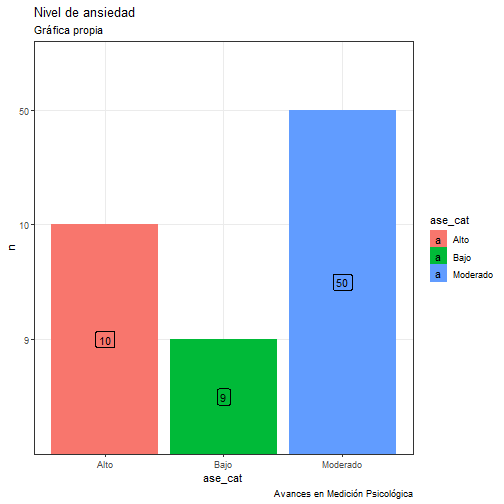
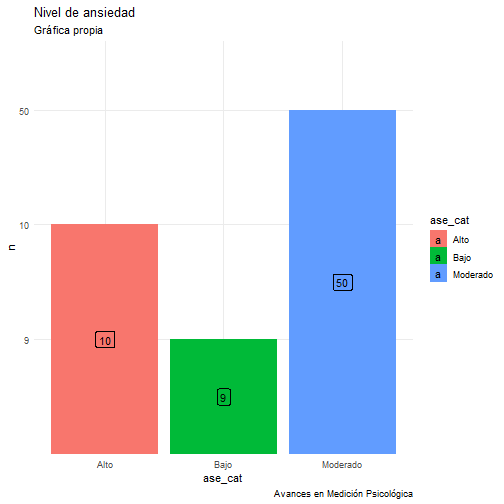
Update

diff --git a/Demo_xaringan.html b/Demo_xaringan.html
@@ -10,7 +10,7 @@
     <link href="libs/tachyons/tachyons.min.css" rel="stylesheet" />
     <link href="libs/panelset/panelset.css" rel="stylesheet" />
     <script src="libs/panelset/panelset.js"></script>
-    <script type="application/json" id="xaringanExtra-editable-docid">{"id":"xc39079bc60c47769f78210e9e321b90","expires":1}</script>
+    <script type="application/json" id="xaringanExtra-editable-docid">{"id":"x98ff216f49f42edb94cd280e8e09a9b","expires":1}</script>
     <script src="libs/himalaya/himalaya.js"></script>
     <script src="libs/js-cookie/js.cookie.js"></script>
     <link href="libs/editable/editable.css" rel="stylesheet" />
@@ -140,8 +140,8 @@ class: inverse, center, middle
 .font105[.line-space1-5[
 La base de datos (data) fue extraida de una investigación que tenía por objetivo correlacionar las variables `Autoeficacia Académica (AA)` y el `Burnout (B)` en estudiantes de enfermería ]]
 
-<div id="htmlwidget-ea515cf4501c38242508" style="width:100%;height:auto;" class="datatables html-widget"></div>
-<script type="application/json" data-for="htmlwidget-ea515cf4501c38242508">{"x":{"filter":"none","vertical":false,"data":[["1","2","3","4","5","6","7","8","9","10","11"],["Muestra","Sexo","Edad","Convivencia","Escuela","Escala de Autoeficacia Academica","Escala de Burnout","Puntaje total de Autoeficacia Academica","Puntaje total de Burnout","Puntaje categorizado de Autoeficacia Academica","Puntaje categorizado de Burnout"],["69","Hombre; Mujer","17; 23","Solo; Con familia","Ciencias; Ciencias sociales; Vocación salud","ase1; ase31","bur1; bur24","44; 144","10; 125","bajo; moderado; alto","leve; moderado; severo"]],"container":"<table class=\"display\">\n  <thead>\n    <tr>\n      <th> <\/th>\n      <th>Variable<\/th>\n      <th>Descripcion<\/th>\n    <\/tr>\n  <\/thead>\n<\/table>","options":{"pageLength":5,"order":[],"autoWidth":false,"orderClasses":false,"columnDefs":[{"orderable":false,"targets":0}],"lengthMenu":[5,10,25,50,100]}},"evals":[],"jsHooks":[]}</script>
+<div id="htmlwidget-8ad7da564cf5809e8dba" style="width:100%;height:auto;" class="datatables html-widget"></div>
+<script type="application/json" data-for="htmlwidget-8ad7da564cf5809e8dba">{"x":{"filter":"none","vertical":false,"data":[["1","2","3","4","5","6","7","8","9","10","11"],["Muestra","Sexo","Edad","Convivencia","Escuela","Escala de Autoeficacia Academica","Escala de Burnout","Puntaje total de Autoeficacia Academica","Puntaje total de Burnout","Puntaje categorizado de Autoeficacia Academica","Puntaje categorizado de Burnout"],["69","Hombre; Mujer","17; 23","Solo; Con familia","Ciencias; Ciencias sociales; Vocación salud","ase1; ase31","bur1; bur24","44; 144","10; 125","bajo; moderado; alto","leve; moderado; severo"]],"container":"<table class=\"display\">\n  <thead>\n    <tr>\n      <th> <\/th>\n      <th>Variable<\/th>\n      <th>Descripcion<\/th>\n    <\/tr>\n  <\/thead>\n<\/table>","options":{"pageLength":5,"order":[],"autoWidth":false,"orderClasses":false,"columnDefs":[{"orderable":false,"targets":0}],"lengthMenu":[5,10,25,50,100]}},"evals":[],"jsHooks":[]}</script>
 
 ---
 
@@ -199,7 +199,7 @@ class: inverse, center, middle
 #### 1. Coordenadas
 
 .font105[.line-space1-5[
-Para utilizar **geom_bar** primero definiremos que variable categórica queremos gráficar, la cual ubicaremos en el eje "y" o en el eje "x". Al igual que en la gráfica anterior utilizaremos la variable categórica `ase_cat`
+Al usar la función `%&gt;%` lo primero que colocaremos antes de crear cualquier código es la base de datos que en este caso se llama `data`. Posteriormente incluiremos la función **ggplot()** la cual crea el sistema de coordenadas y especifica las coordenadas con `aes`. Para la gráfica en el eje "x" utilizaremos la variable categórica `ase_cat`
 ]]
 
 .pull-left[
@@ -220,7 +220,7 @@ data %&gt;%
 #### 2. Geometrías
 
 .font105[.line-space1-5[
-Luego de definir la variable categórica `ase_cat` que se va a gráficar se debe definir la geométria a utilizar, que este caso será **geom_bar**
+Luego de especificar las coordenadas del gráfico definimos la geométria a utilizar, para ello agregaremos una capa **(con el símbolo +) ** y utilizaremos la geometría **geom_bar**
 ]]
 
 .pull-left[
@@ -242,7 +242,7 @@ data %&gt;%
 #### 3. Colores
 
 .font105[.line-space1-5[
-Después de tener el gráfico, podemos definir el color de los bordes de la barra y su relleno. Para ello utilizaremos `colour` y `fill`
+Si bien `aes` permite definir las coordenadas del gráfico, también permite incluir funciones para personalizar el gráfico. Incluyendo el argumento `colour` podemos colorear los bordes de la barra e incluyendo el argumento `fill` podemos especificar un color para el relleno del gráfico.
 
 ]]
 
@@ -267,7 +267,7 @@ data %&gt;%
 #### 4. Tema
 
 .font105[.line-space1-5[
-A continuación le agregamos un tema, el cual le da un formato al fondo de la gráfica. 
+El **tema** es un argumento que le da un formato al fondo y el marco de la gráfica. 
 
 ]]
 
@@ -293,7 +293,7 @@ data %&gt;%
 #### 5. Etiquetas del gráfico
 
 .font105[.line-space1-5[
-Al terminar el gráfico se pueden colocar titulos subtitulos y nombres para cada eje.
+Al culminar el gráfico se pueden colocar titulos, subtitulos y leyenda.
 
 ]]
 
@@ -365,7 +365,7 @@ data %&gt;%
 #### 2. Coordenadas
 
 .font105[.line-space1-5[
-En el segundo argumento que se refiere a las coordenadas, con `aes`, señalaremos el contenido del eje horizontal (x) y vertical (y)
+Con el argumento `aes`, señalaremos el contenido del eje horizontal (x) y vertical (y)
 ]]
 
 .pull-left[
@@ -394,8 +394,9 @@ data %&gt;%
 #### 3. Geometrías
 
 .font105[.line-space1-5[
-El tercer argumento refiere a las geometrías, para ello agregamos una capa **(con el símbolo +) ** y colocamos `geom`
+Agregamos una capa **(con el símbolo +)** para agregar el argumento de la geometría **geom_col**.
 ]]
+
 .pull-left[
 
 ```r
@@ -414,7 +415,6 @@ data %&gt;%
 .pull-right[
 &lt;img src="Demo_xaringan_files/figure-html/unnamed-chunk-23-1.png" width="504" /&gt;
 ]
-
 ]
 
 
@@ -423,7 +423,7 @@ data %&gt;%
 #### 4. Colores del gráfico
 
 .font105[.line-space1-5[
-Con `aes`, además de las coordenadas, se puede colorear el gráfico. Para ello agregaremos el argumento `fill` y en este caso, coloreamos según **ase_cat**
+Dentro de la función de `aes` agregaremos el argumento `fill` y en este caso, coloreamos según **ase_cat**
 ]]
 .pull-left[
 
@@ -445,7 +445,6 @@ data %&gt;%
 .pull-right[
 &lt;img src="Demo_xaringan_files/figure-html/unnamed-chunk-25-1.png" width="504" /&gt;
 ]
-
 ]
 
 .panel[.panel-name[Paso 4B]
@@ -453,8 +452,9 @@ data %&gt;%
 #### 4.1 Colores del gráfico
 
 .font105[.line-space1-5[
-En este caso colorearemos el gráfico según la variable **sexo**
+También podemos colorearemos el gráfico según otra variable categórica, por ejemplo según la variable **sexo**.
 ]]
+
 .pull-left[
 
 ```r
@@ -465,9 +465,9 @@ data %&gt;%
           sexo = factor(sexo)   
   ) %&gt;% 
   ggplot(aes(y = n,             
-             x = ase_cat,       
-             fill = sexo)) +
-* geom_col()
+             x = ase_cat,          
+*            fill = sexo)) +
+  geom_col()                          
 ```
 ]
 
@@ -476,7 +476,6 @@ data %&gt;%
 &lt;img src="Demo_xaringan_files/figure-html/unnamed-chunk-27-1.png" width="504" /&gt;
 ]
 ]
-
 
 .panel[.panel-name[Paso 5]
 
@@ -498,7 +497,7 @@ data %&gt;%
              x = ase_cat,      
           fill = ase_cat)) +   
   geom_col() +
-* theme_bw()
+* theme_minimal()
 ```
 ]
 
@@ -506,7 +505,6 @@ data %&gt;%
 .pull-right[
 ![](Demo_xaringan_files/figure-html/unnamed-chunk-29-1.png)&lt;!-- --&gt;
 ]
-
 ]
 
 .panel[.panel-name[Paso 6]
@@ -514,7 +512,7 @@ data %&gt;%
 #### 6. Etiquetas en la barra
 
 .font105[.line-space1-5[
-Este argumento es para personalizar el gráfico y será útil para denotar la altura de la barra, para ello agregamos una capa y colocamos `geom_label()`. En ella podemos específicar el título, subtítulo, leyenda, y otros.
+Las etiquetas en la barra permiten denotar la altura de la barra. Para incluir las etiquetas agregamos el argumento `geom_label()`. En ella especificaremos el contenido de la etiqueta.
 ]]
 .pull-left[
 
@@ -529,7 +527,7 @@ data %&gt;%
              x = ase_cat,
           fill = ase_cat)) +
   geom_col() + 
-  theme_bw() +
+  theme_minimal() +
 * geom_label(aes(label = n),
 * position = position_stack(vjust = 0.5))
 ```
@@ -546,7 +544,7 @@ data %&gt;%
 #### 7. Etiquetas en el gráfico
 
 .font105[.line-space1-5[
-El quinto argumento refiere a las etiquetas, para ello agregamos una capa y colocamos `labs`. En ella podemos específicar el título, subtítulo, leyenda, y otros.
+Este argumento permite agregar etiquetas como el titulo, el subtitulo y la leyenda. Para ello utilizaremos el argumento `labs` con la cual especificaremos el contenido de cada etiqueta.
 ]]
 .pull-left[
 
@@ -561,7 +559,7 @@ data %&gt;%
              x = ase_cat,
           fill = ase_cat)) +
   geom_col() + 
-  theme_bw() +
+  theme_minimal() +
   geom_label(aes(label = n),                         
              position = position_stack(vjust = 0.5)) +
 * labs(
